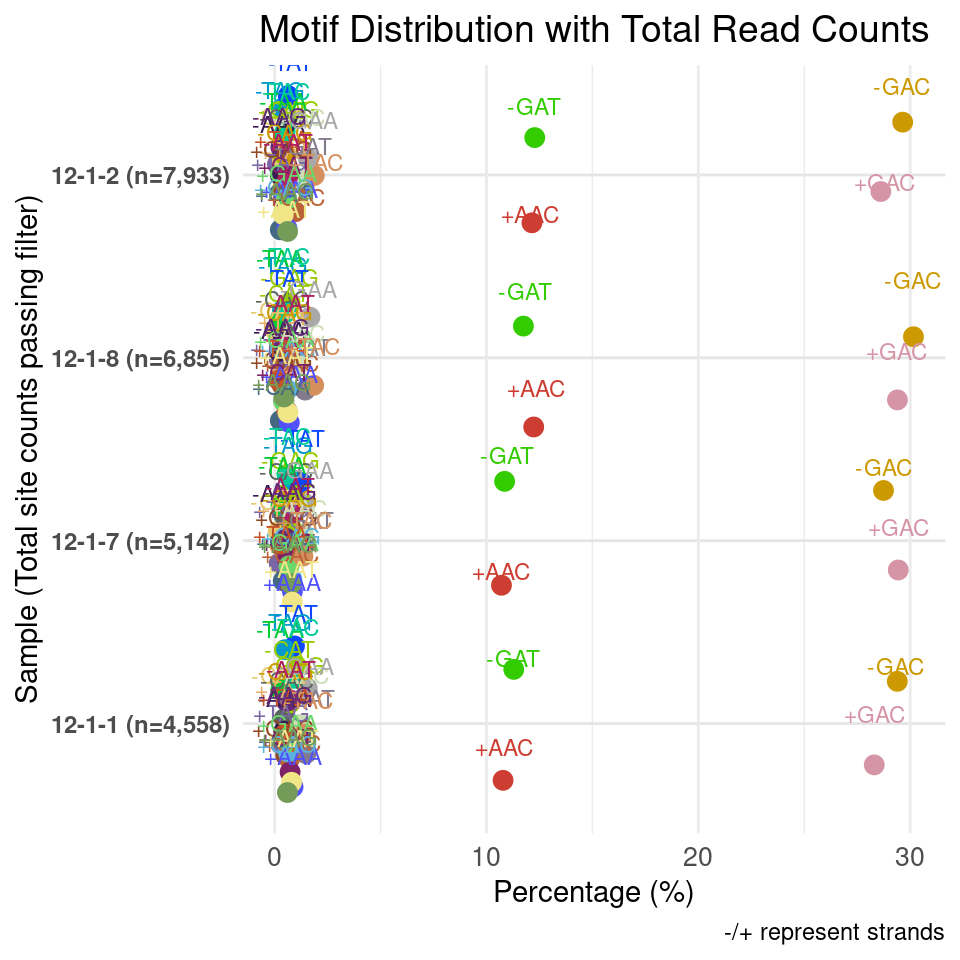
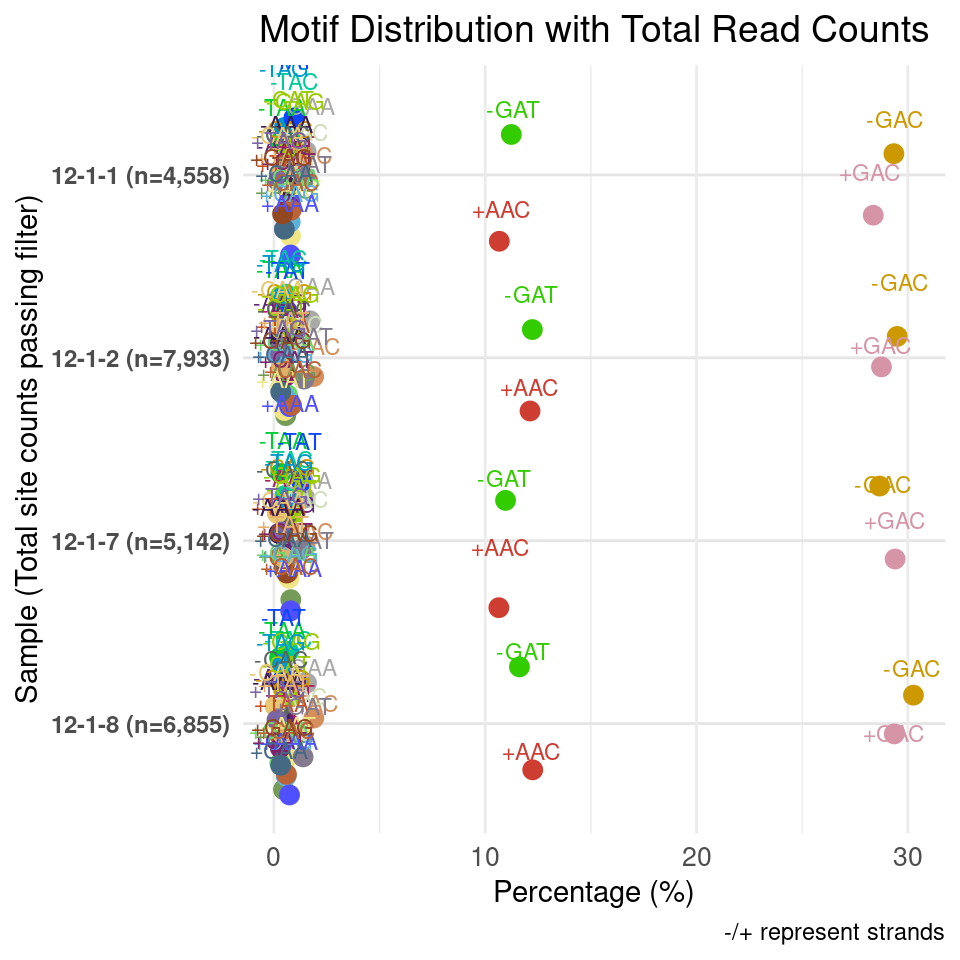
update

diff --git a/docs/QC.html b/docs/QC.html
@@ -410,7 +410,7 @@ aria-hidden="true"></span> </a>
 <div class="tab-content">
 <div id="summary" class="tab-pane fade in active">
 <p>
-<strong>Last updated:</strong> 2025-03-19
+<strong>Last updated:</strong> 2025-03-20
 </p>
 <p>
 <strong>Checks:</strong> <span
@@ -544,15 +544,15 @@ project makes it easier to run your code on other machines.</p>
 <div class="panel panel-default">
 <div class="panel-heading">
 <p class="panel-title">
-<a data-toggle="collapse" data-parent="#workflowr-checks" href="#strongRepositoryversionstrongahrefhttpsgithubcomxsun1229camseqm6atree41fce20bdc127abf666ad997691099779ecafe85targetblank41fce20a">
+<a data-toggle="collapse" data-parent="#workflowr-checks" href="#strongRepositoryversionstrongahrefhttpsgithubcomxsun1229camseqm6atree79335dc52a6a6112a8e0229d35276a68a183133ftargetblank79335dca">
 <span class="glyphicon glyphicon-ok text-success"
 aria-hidden="true"></span> <strong>Repository version:</strong>
-<a href="https://github.com/xsun1229/camseq-m6a/tree/41fce20bdc127abf666ad997691099779ecafe85" target="_blank">41fce20</a>
+<a href="https://github.com/xsun1229/camseq-m6a/tree/79335dc52a6a6112a8e0229d35276a68a183133f" target="_blank">79335dc</a>
 </a>
 </p>
 </div>
 <div
[2 lines of base64/hex data omitted]
 class="panel-collapse collapse">
 <div class="panel-body">
 <p>
@@ -562,7 +562,7 @@ reproducibility.
 </p>
 <p>
 The results in this page were generated with repository version
-<a href="https://github.com/xsun1229/camseq-m6a/tree/41fce20bdc127abf666ad997691099779ecafe85" target="_blank">41fce20</a>.
+<a href="https://github.com/xsun1229/camseq-m6a/tree/79335dc52a6a6112a8e0229d35276a68a183133f" target="_blank">79335dc</a>.
 See the <em>Past versions</em> tab to see a history of the changes made
 to the R Markdown and HTML files.
 </p>
@@ -622,6 +622,40 @@ Message
 </tr>
 </thead>
 <tbody>
+<tr>
+<td>
+Rmd
+</td>
+<td>
+<a href="https://github.com/xsun1229/camseq-m6a/blob/79335dc52a6a6112a8e0229d35276a68a183133f/analysis/QC.Rmd" target="_blank">79335dc</a>
+</td>
+<td>
+XSun
+</td>
+<td>
+2025-03-19
+</td>
+<td>
+update
+</td>
+</tr>
+<tr>
+<td>
+html
+</td>
+<td>
+<a href="https://rawcdn.githack.com/xsun1229/camseq-m6a/79335dc52a6a6112a8e0229d35276a68a183133f/docs/QC.html" target="_blank">79335dc</a>
+</td>
+<td>
+XSun
+</td>
+<td>
+2025-03-19
+</td>
+<td>
+update
+</td>
+</tr>
 <tr>
 <td>
 Rmd
@@ -977,6 +1011,11 @@ combined_data &lt;- combined_data %&gt;%
     sample_label = fct_reorder(sample_label, total_count)
   )
 
+combined_data &lt;- combined_data[nrow(combined_data):1, ]
+combined_data &lt;- combined_data %&gt;%
+  mutate(sample_label = factor(sample_label, 
+                              levels = unique(sample_label)))
+
 # Create visualization
 ggplot(combined_data, aes(x = percentage, y = sample_label)) +
   geom_point(
@@ -1039,6 +1078,17 @@ Date
 <tbody>
 <tr>
 <td>
+<a href="https://github.com/xsun1229/camseq-m6a/blob/79335dc52a6a6112a8e0229d35276a68a183133f/docs/figure/QC.Rmd/unnamed-chunk-3-1.png" target="_blank">79335dc</a>
+</td>
+<td>
+XSun
+</td>
+<td>
+2025-03-19
+</td>
+</tr>
+<tr>
+<td>
 <a href="https://github.com/xsun1229/camseq-m6a/blob/41fce20bdc127abf666ad997691099779ecafe85/docs/figure/QC.Rmd/unnamed-chunk-3-1.png" target="_blank">41fce20</a>
 </td>
 <td>
@@ -1082,7 +1132,7 @@ aac_gac &lt;- aac_gac[,-which(colnames(aac_gac) %in% c(&quot;total_count&quot;,&
 
 DT::datatable(aac_gac,caption = htmltools::tags$caption( style = &#39;caption-side: left; text-align: left; color:black;  font-size:150% ;&#39;,&#39;Percentage for AAC,GAC motif&#39;),options = list(pageLength = 10) )</code></pre>
 <div id="htmlwidget-c71357163c4076450eea" style="width:100%;height:auto;" class="datatables html-widget"></div>
-<script type="application/json" data-for="htmlwidget-c71357163c4076450eea">{"x":{"filter":"none","vertical":false,"caption":"<caption style=\"caption-side: left; text-align: left; color:black;  font-size:150% ;\">Percentage for AAC,GAC motif<\/caption>","data":[["1","2","3","4","5","6","7","8"],["12-1-1","12-1-1","12-1-2","12-1-2","12-1-7","12-1-7","12-1-8","12-1-8"],["+GAC","-GAC","+GAC","-GAC","+GAC","-GAC","+GAC","-GAC"],[14.8016534919138,15.5268692436,14.4525670111755,15.5281068817746,15.1434159061278,15.9713168187744,15.4167280585433,16.0011787240312],["30.3285227355138","-","29.9806738929502","-","31.1147327249022","-","31.4179067825745","-"],["12-1-1","12-1-1","12-1-2","12-1-2","12-1-7","12-1-7","12-1-8","12-1-8"],["+AAC","-AAC","+AAC","-AAC","+AAC","-AAC","+AAC","-AAC"],[7.04909710638915,2.13213430995721,7.71363750945299,2.14687841357869,6.84485006518905,2.01434159061278,7.96129856097441,2.25430970973921],["9.18123141634636","-","9.86051592303168","-","8.85919165580183","-","10.2156082707136","-"]],"container":"<table class=\"display\">\n  <thead>\n    <tr>\n      <th> <\/th>\n      <th>sample<\/th>\n      <th>motif<\/th>\n      <th>percentage<\/th>\n      <th>total_per_sample<\/th>\n      <th>sample.1<\/th>\n      <th>motif.1<\/th>\n      <th>percentage.1<\/th>\n      <th>total_per_sample.1<\/th>\n    <\/tr>\n  <\/thead>\n<\/table>","options":{"pageLength":10,"columnDefs":[{"className":"dt-right","targets":[3,7]},{"orderable":false,"targets":0}],"order":[],"autoWidth":false,"orderClasses":false}},"evals":[],"jsHooks":[]}</script>
+<script type="application/json" data-for="htmlwidget-c71357163c4076450eea">{"x":{"filter":"none","vertical":false,"caption":"<caption style=\"caption-side: left; text-align: left; color:black;  font-size:150% ;\">Percentage for AAC,GAC motif<\/caption>","data":[["1","2","3","4","5","6","7","8"],["12-1-8","12-1-8","12-1-7","12-1-7","12-1-2","12-1-2","12-1-1","12-1-1"],["-GAC","+GAC","-GAC","+GAC","-GAC","+GAC","-GAC","+GAC"],[16.0011787240312,15.4167280585433,15.9713168187744,15.1434159061278,15.5281068817746,14.4525670111755,15.5268692436,14.8016534919138],["31.4179067825745","-","31.1147327249022","-","29.9806738929502","-","30.3285227355138","-"],["12-1-8","12-1-8","12-1-7","12-1-7","12-1-2","12-1-2","12-1-1","12-1-1"],["-AAC","+AAC","-AAC","+AAC","-AAC","+AAC","-AAC","+AAC"],[2.25430970973921,7.96129856097441,2.01434159061278,6.84485006518905,2.14687841357869,7.71363750945299,2.13213430995721,7.04909710638915],["10.2156082707136","-","8.85919165580183","-","9.86051592303168","-","9.18123141634636","-"]],"container":"<table class=\"display\">\n  <thead>\n    <tr>\n      <th> <\/th>\n      <th>sample<\/th>\n      <th>motif<\/th>\n      <th>percentage<\/th>\n      <th>total_per_sample<\/th>\n      <th>sample.1<\/th>\n      <th>motif.1<\/th>\n      <th>percentage.1<\/th>\n      <th>total_per_sample.1<\/th>\n    <\/tr>\n  <\/thead>\n<\/table>","options":{"pageLength":10,"columnDefs":[{"className":"dt-right","targets":[3,7]},{"orderable":false,"targets":0}],"order":[],"autoWidth":false,"orderClasses":false}},"evals":[],"jsHooks":[]}</script>
 </div>
 <div id="cutoff-covarage-10-methelytion-level-20"
 class="section level2">
@@ -1127,6 +1177,14 @@ combined_data &lt;- combined_data %&gt;%
     sample_label = paste0(sample, &quot; (n=&quot;, format(total_count, big.mark = &quot;,&quot;, scientific = FALSE), &quot;)&quot;),
     sample_label = fct_reorder(sample_label, total_count)
   )
+
+combined_data &lt;- combined_data[nrow(combined_data):1, ]
+combined_data &lt;- combined_data %&gt;%
+  mutate(sample_label = factor(sample_label, 
+                              levels = unique(sample_label)))
+
+
+
 
 # Create visualization
 ggplot(combined_data, aes(x = percentage, y = sample_label)) +
@@ -1190,6 +1248,17 @@ Date
 <tbody>
 <tr>
 <td>
+<a href="https://github.com/xsun1229/camseq-m6a/blob/79335dc52a6a6112a8e0229d35276a68a183133f/docs/figure/QC.Rmd/unnamed-chunk-4-1.png" target="_blank">79335dc</a>
+</td>
+<td>
+XSun
+</td>
+<td>
+2025-03-19
+</td>
+</tr>
+<tr>
+<td>
 <a href="https://github.com/xsun1229/camseq-m6a/blob/41fce20bdc127abf666ad997691099779ecafe85/docs/figure/QC.Rmd/unnamed-chunk-4-1.png" target="_blank">41fce20</a>
 </td>
 <td>
@@ -1233,7 +1302,7 @@ aac_gac &lt;- aac_gac[,-which(colnames(aac_gac) %in% c(&quot;total_count&quot;,&
 
 DT::datatable(aac_gac,caption = htmltools::tags$caption( style = &#39;caption-side: left; text-align: left; color:black;  font-size:150% ;&#39;,&#39;Percentage for AAC,GAC motif&#39;),options = list(pageLength = 10) )</code></pre>
 <div id="htmlwidget-4e8d7a94295e256b0a38" style="width:100%;height:auto;" class="datatables html-widget"></div>
-<script type="application/json" data-for="htmlwidget-4e8d7a94295e256b0a38">{"x":{"filter":"none","vertical":false,"caption":"<caption style=\"caption-side: left; text-align: left; color:black;  font-size:150% ;\">Percentage for AAC,GAC motif<\/caption>","data":[["1","2","3","4","5","6","7","8"],["12-1-1","12-1-1","12-1-2","12-1-2","12-1-7","12-1-7","12-1-8","12-1-8"],["+GAC","-GAC","+GAC","-GAC","+GAC","-GAC","+GAC","-GAC"],[28.2799473453269,29.3769197016235,28.6776755325854,29.5726711206353,29.3465577596266,28.7631271878646,29.3362509117433,30.18234865062],["57.6568670469504","-","58.2503466532207","-","58.1096849474913","-","59.5185995623632","-"],["12-1-1","12-1-1","12-1-2","12-1-2","12-1-7","12-1-7","12-1-8","12-1-8"],["+AAC","-AAC","+AAC","-AAC","+AAC","-AAC","+AAC","-AAC"],[10.7503290917069,1.25054848617815,12.1013487961679,1.09668473465272,10.6767794632439,1.30299494360171,12.2684172137126,1.18161925601751],["12.000877577885","-","13.1980335308206","-","11.9797744068456","-","13.4500364697301","-"]],"container":"<table class=\"display\">\n  <thead>\n    <tr>\n      <th> <\/th>\n      <th>sample<\/th>\n      <th>motif<\/th>\n      <th>percentage<\/th>\n      <th>total_per_sample<\/th>\n      <th>sample.1<\/th>\n      <th>motif.1<\/th>\n      <th>percentage.1<\/th>\n      <th>total_per_sample.1<\/th>\n    <\/tr>\n  <\/thead>\n<\/table>","options":{"pageLength":10,"columnDefs":[{"className":"dt-right","targets":[3,7]},{"orderable":false,"targets":0}],"order":[],"autoWidth":false,"orderClasses":false}},"evals":[],"jsHooks":[]}</script>
+<script type="application/json" data-for="htmlwidget-4e8d7a94295e256b0a38">{"x":{"filter":"none","vertical":false,"caption":"<caption style=\"caption-side: left; text-align: left; color:black;  font-size:150% ;\">Percentage for AAC,GAC motif<\/caption>","data":[["1","2","3","4","5","6","7","8"],["12-1-8","12-1-8","12-1-7","12-1-7","12-1-2","12-1-2","12-1-1","12-1-1"],["-GAC","+GAC","-GAC","+GAC","-GAC","+GAC","-GAC","+GAC"],[30.18234865062,29.3362509117433,28.7631271878646,29.3465577596266,29.5726711206353,28.6776755325854,29.3769197016235,28.2799473453269],["59.5185995623632","-","58.1096849474913","-","58.2503466532207","-","57.6568670469504","-"],["12-1-8","12-1-8","12-1-7","12-1-7","12-1-2","12-1-2","12-1-1","12-1-1"],["-AAC","+AAC","-AAC","+AAC","-AAC","+AAC","-AAC","+AAC"],[1.18161925601751,12.2684172137126,1.30299494360171,10.6767794632439,1.09668473465272,12.1013487961679,1.25054848617815,10.7503290917069],["13.4500364697301","-","11.9797744068456","-","13.1980335308206","-","12.000877577885","-"]],"container":"<table class=\"display\">\n  <thead>\n    <tr>\n      <th> <\/th>\n      <th>sample<\/th>\n      <th>motif<\/th>\n      <th>percentage<\/th>\n      <th>total_per_sample<\/th>\n      <th>sample.1<\/th>\n      <th>motif.1<\/th>\n      <th>percentage.1<\/th>\n      <th>total_per_sample.1<\/th>\n    <\/tr>\n  <\/thead>\n<\/table>","options":{"pageLength":10,"columnDefs":[{"className":"dt-right","targets":[3,7]},{"orderable":false,"targets":0}],"order":[],"autoWidth":false,"orderClasses":false}},"evals":[],"jsHooks":[]}</script>
 </div>
 <div id="cutoff-covarage-10-methelytion-level-30"
 class="section level2">
@@ -1278,6 +1347,11 @@ combined_data &lt;- combined_data %&gt;%
     sample_label = paste0(sample, &quot; (n=&quot;, format(total_count, big.mark = &quot;,&quot;, scientific = FALSE), &quot;)&quot;),
     sample_label = fct_reorder(sample_label, total_count)
   )
+
+combined_data &lt;- combined_data[nrow(combined_data):1, ]
+combined_data &lt;- combined_data %&gt;%
+  mutate(sample_label = factor(sample_label, 
+                              levels = unique(sample_label)))
 
 # Create visualization
 ggplot(combined_data, aes(x = percentage, y = sample_label)) +
@@ -1341,6 +1415,17 @@ Date
 <tbody>
 <tr>
 <td>
+<a href="https://github.com/xsun1229/camseq-m6a/blob/79335dc52a6a6112a8e0229d35276a68a183133f/docs/figure/QC.Rmd/unnamed-chunk-5-1.png" target="_blank">79335dc</a>
+</td>
+<td>
+XSun
+</td>
+<td>
+2025-03-19
+</td>
+</tr>
+<tr>
+<td>
 <a href="https://github.com/xsun1229/camseq-m6a/blob/41fce20bdc127abf666ad997691099779ecafe85/docs/figure/QC.Rmd/unnamed-chunk-5-1.png" target="_blank">41fce20</a>
 </td>
 <td>
@@ -1373,7 +1458,7 @@ aac_gac &lt;- aac_gac[,-which(colnames(aac_gac) %in% c(&quot;total_count&quot;,&
 
 DT::datatable(aac_gac,caption = htmltools::tags$caption( style = &#39;caption-side: left; text-align: left; color:black;  font-size:150% ;&#39;,&#39;Percentage for AAC,GAC motif&#39;),options = list(pageLength = 10) )</code></pre>
 <div id="htmlwidget-5c1357f460f66bba8794" style="width:100%;height:auto;" class="datatables html-widget"></div>
-<script type="application/json" data-for="htmlwidget-5c1357f460f66bba8794">{"x":{"filter":"none","vertical":false,"caption":"<caption style=\"caption-side: left; text-align: left; color:black;  font-size:150% ;\">Percentage for AAC,GAC motif<\/caption>","data":[["1","2","3","4","5","6","7","8"],["12-1-1","12-1-1","12-1-2","12-1-2","12-1-7","12-1-7","12-1-8","12-1-8"],["+GAC","-GAC","+GAC","-GAC","+GAC","-GAC","+GAC","-GAC"],[32.498307379824,34.2924847664184,33.160820394863,34.4067471727046,33.1364441819256,31.5711754282339,33.6147186147186,33.9177489177489],["66.7907921462424","-","67.5675675675676","-","64.7076196101595","-","67.5324675324675","-"],["12-1-1","12-1-1","12-1-2","12-1-2","12-1-7","12-1-7","12-1-8","12-1-8"],["+AAC","-AAC","+AAC","-AAC","+AAC","-AAC","+AAC","-AAC"],[11.5775220040623,0.880162491536899,12.6892850297106,0.76672417097949,10.8978145304194,0.915534554046072,12.8138528138528,0.735930735930736],["12.4576844955992","-","13.4560092006901","-","11.8133490844654","-","13.5497835497835","-"]],"container":"<table class=\"display\">\n  <thead>\n    <tr>\n      <th> <\/th>\n      <th>sample<\/th>\n      <th>motif<\/th>\n      <th>percentage<\/th>\n      <th>total_per_sample<\/th>\n      <th>sample.1<\/th>\n      <th>motif.1<\/th>\n      <th>percentage.1<\/th>\n      <th>total_per_sample.1<\/th>\n    <\/tr>\n  <\/thead>\n<\/table>","options":{"pageLength":10,"columnDefs":[{"className":"dt-right","targets":[3,7]},{"orderable":false,"targets":0}],"order":[],"autoWidth":false,"orderClasses":false}},"evals":[],"jsHooks":[]}</script>
+<script type="application/json" data-for="htmlwidget-5c1357f460f66bba8794">{"x":{"filter":"none","vertical":false,"caption":"<caption style=\"caption-side: left; text-align: left; color:black;  font-size:150% ;\">Percentage for AAC,GAC motif<\/caption>","data":[["1","2","3","4","5","6","7","8"],["12-1-8","12-1-8","12-1-7","12-1-7","12-1-2","12-1-2","12-1-1","12-1-1"],["-GAC","+GAC","-GAC","+GAC","-GAC","+GAC","-GAC","+GAC"],[33.9177489177489,33.6147186147186,31.5711754282339,33.1364441819256,34.4067471727046,33.160820394863,34.2924847664184,32.498307379824],["67.5324675324675","-","64.7076196101595","-","67.5675675675676","-","66.7907921462424","-"],["12-1-8","12-1-8","12-1-7","12-1-7","12-1-2","12-1-2","12-1-1","12-1-1"],["-AAC","+AAC","-AAC","+AAC","-AAC","+AAC","-AAC","+AAC"],[0.735930735930736,12.8138528138528,0.915534554046072,10.8978145304194,0.76672417097949,12.6892850297106,0.880162491536899,11.5775220040623],["13.5497835497835","-","11.8133490844654","-","13.4560092006901","-","12.4576844955992","-"]],"container":"<table class=\"display\">\n  <thead>\n    <tr>\n      <th> <\/th>\n      <th>sample<\/th>\n      <th>motif<\/th>\n      <th>percentage<\/th>\n      <th>total_per_sample<\/th>\n      <th>sample.1<\/th>\n      <th>motif.1<\/th>\n      <th>percentage.1<\/th>\n      <th>total_per_sample.1<\/th>\n    <\/tr>\n  <\/thead>\n<\/table>","options":{"pageLength":10,"columnDefs":[{"className":"dt-right","targets":[3,7]},{"orderable":false,"targets":0}],"order":[],"autoWidth":false,"orderClasses":false}},"evals":[],"jsHooks":[]}</script>
 <br>
 <p>
 <button type="button" class="btn btn-default btn-workflowr btn-workflowr-sessioninfo" data-toggle="collapse" data-target="#workflowr-sessioninfo" style="display: block;">
